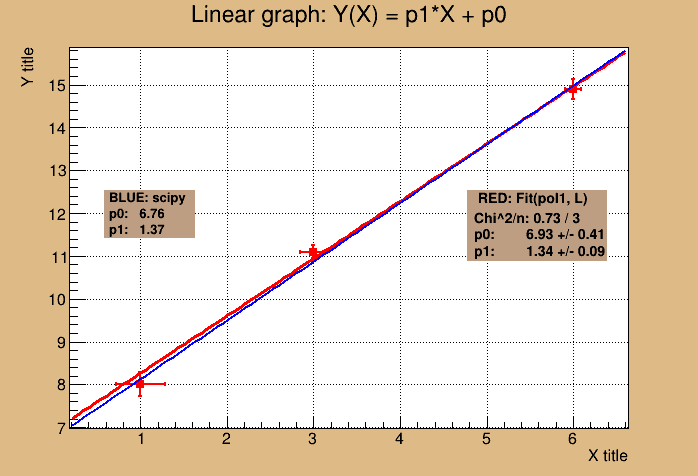
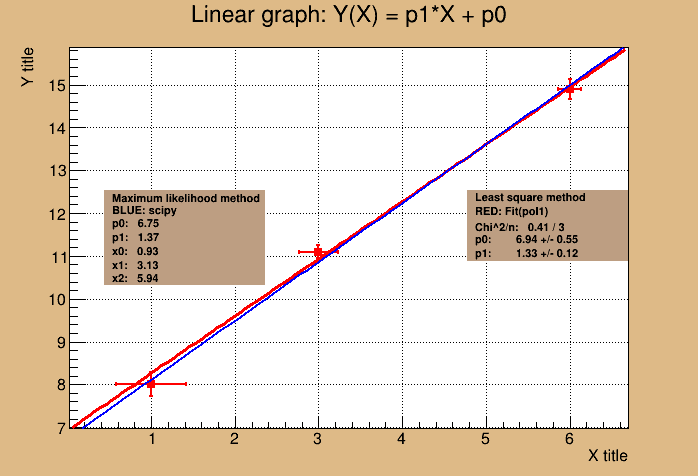
Review

diff --git a/hw_avg.py b/hw_avg.py
@@ -12,39 +12,43 @@ from mixins import BasicGraphErrors
 class Task1(BasicGraphErrors):
     """Решение задачи 1."""
 
-    STD = 0.2
+    STDX, STDY = 0.3, 0.2
 
     def _likelihood_function(self, params):
         """Отрицательный логарифм функции правдоподобия."""
-        p1, p0 = params
-        residuals = self.points[:, 1] - p1 * self.points[:, 0] - p0
+        p1, p0, *points = params
+        residuals_x = self.points[:, 0] - np.array(points)
+        residuals_y = self.points[:, 1] - p1 * np.array(points) - p0
         likelihoods = (
-            -np.log(2 * np.pi) / 2 - np.log(self.STD)
-            - ((residuals / self.STD) ** 2) / 2
+            -np.log(2 * np.pi) - np.log(self.STDX) * np.log(self.STDY)
+            - ((residuals_x / self.STDX) ** 2) / 2
+            - ((residuals_y / self.STDY) ** 2) / 2
         )
         return -np.sum(likelihoods)
 
     def solution_by_scipy(self):
-        """Решение №1.
+        """Решение.
 
         1. Определяем функцию правдоподобия
         2. Осуществляем поиск максимума функции правдоподобия
         """
-        initial_guess = [0, 0]
+        initial_guess = [0] * 5
         result = minimize(self._likelihood_function, initial_guess)
-        p1, p0 = result.x
+        p1, p0, *x_arr = result.x
 
         self.function.SetParameters(p1, p0)
 
+        self.function_text.AddText('Maximum likelihood method')
+        self.function_text.AddText('BLUE: scipy')
         self.function_text.AddText(f'p0:   {round(p0, 2)}')
         self.function_text.AddText(f'p1:   {round(p1, 2)}')
+        for i in range(3):
+            self.function_text.AddText(f'x{i}:   {round(x_arr[i], 2)}')
+        print(x_arr)
 
     def solution_by_root(self):
-        """Решение №2.
-
-        Используем фитирование из библиотеки PyROOT.
-        """
-        self.graph.Fit('pol1', 'L')
+        """Фитирование МНК для сравнения."""
+        self.graph.Fit('pol1')
         self.graph.GetFunction('pol1').SetLineWidth(3)
         params = (
             round(self.graph.GetFunction('pol1').GetChisquare(), 2),
@@ -54,22 +58,25 @@ class Task1(BasicGraphErrors):
             round(self.graph.GetFunction('pol1').GetParError(1), 2)
         )
 
-        self.graph_text.AddText(f'Chi^2/n: {params[0]} / 3')
+        self.graph_text.AddText('Least square method')
+        self.graph_text.AddText('RED: Fit(pol1)')
+        self.graph_text.AddText(f'Chi^2/n:   {params[0]} / 3')
         self.graph_text.AddText(f'p0:        {params[1]} +/- {params[3]}')
         self.graph_text.AddText(f'p1:        {params[2]} +/- {params[4]}')
 
     def __call__(self):
-        """Выззов решений."""
+        """Вызов решений."""
         self.solution_by_scipy()
         self.solution_by_root()
 
 
 if __name__ == '__main__':
     ex, ey = TRandom3(seed=42).Gaus, TRandom3(seed=4242).Gaus
-    errors = [[abs(ex(0, Task1.STD)), abs(ey(0, Task1.STD))] for _ in range(3)]
+    errors = [[abs(ex(0, Task1.STDX)), abs(ey(0, Task1.STDY))]
+              for _ in range(3)]
     points_data = [
         [[1, 8], [3, 11.1], [6, 14.9]],
-        [[15, 28], [19, 31.5], [23, 36]],
+        [[15, 28], [19, 31.6], [23, 36]],
         [[1, 11], [3, 11.9], [6, 14]],
     ]
 

diff --git a/mixins.py b/mixins.py
@@ -61,19 +61,17 @@ class BasicGraphErrors:
         self.graph.GetXaxis().SetTitle('X title')
         self.graph.GetYaxis().SetTitle('Y title')
 
-        self.graph_text = ROOT.TPaveText(0.67, 0.6, 0.87, 0.45, "NDC")
+        self.graph_text = ROOT.TPaveText(0.67, 0.6, 0.9, 0.45, "NDC")
         self.graph_text.SetTextAlign(12)
         self.graph_text.SetFillColor(43)
-        self.graph_text.AddText(' RED: Fit(pol1, L)')
 
         self.function = ROOT.TF1('fun1', '[0]*x+[1]', -100, 100)
         self.function.SetLineColor(4)
         self.function.SetLineWidth(2)
 
-        self.function_text = ROOT.TPaveText(0.15, 0.6, 0.28, 0.5, "NDC")
+        self.function_text = ROOT.TPaveText(0.15, 0.6, 0.38, 0.4, "NDC")
         self.function_text.SetTextAlign(12)
         self.function_text.SetFillColor(43)
-        self.function_text.AddText('BLUE: scipy')
 
         self()
 
@@ -87,6 +85,6 @@ class BasicGraphErrors:
         self.canvas.GetFrame().SetBorderSize(12)
         self.canvas.Modified()
         self.canvas.Update()
-        self.canvas.Print(f'./img/hw_awg/Task1_{name}.png')
+        self.canvas.Print(f'./img/hw_avg/Task1_{name}.png')
 
         sleep(4)
